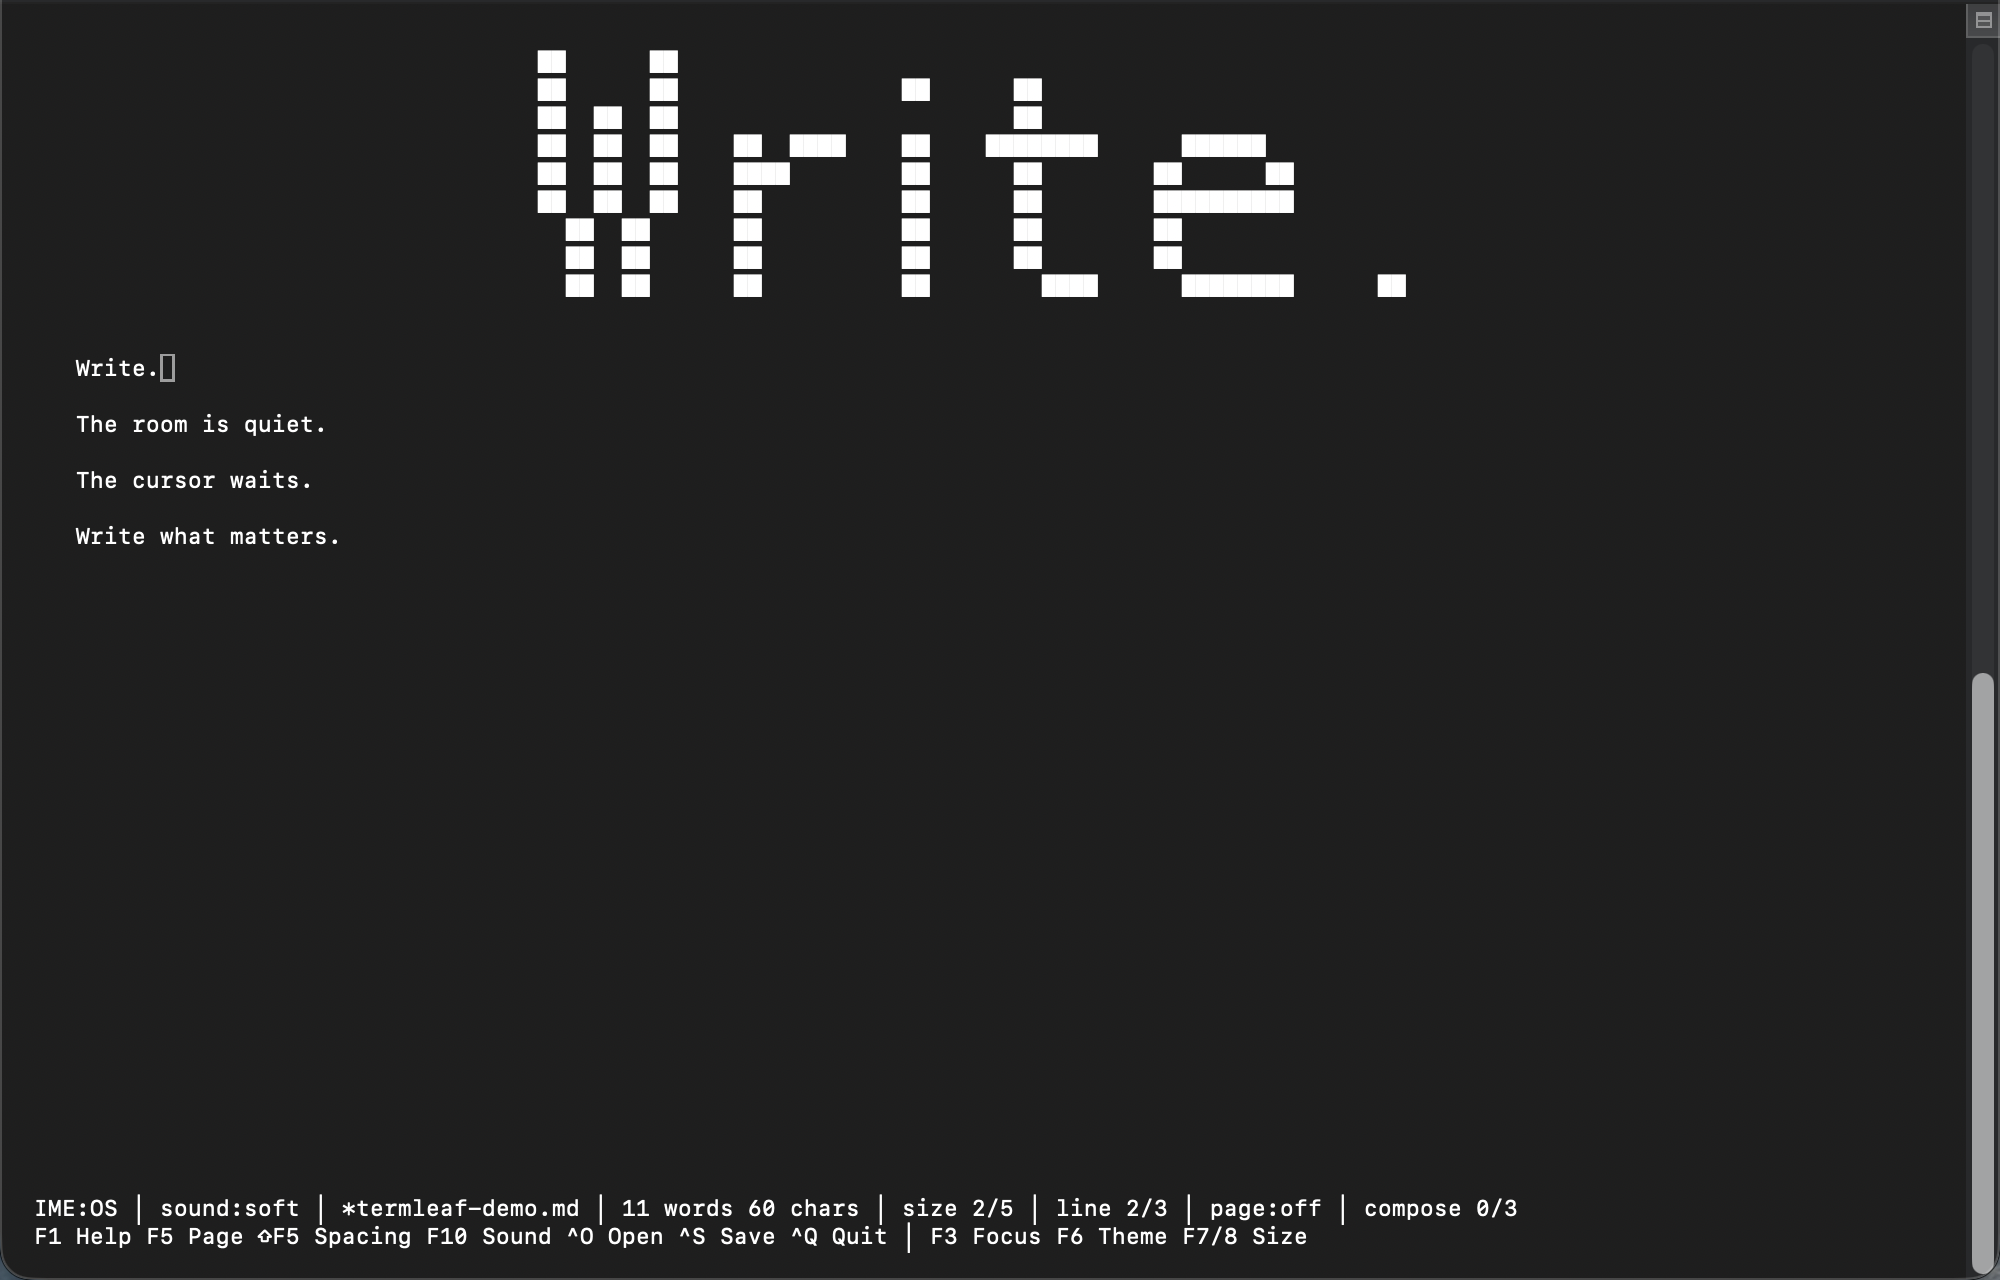
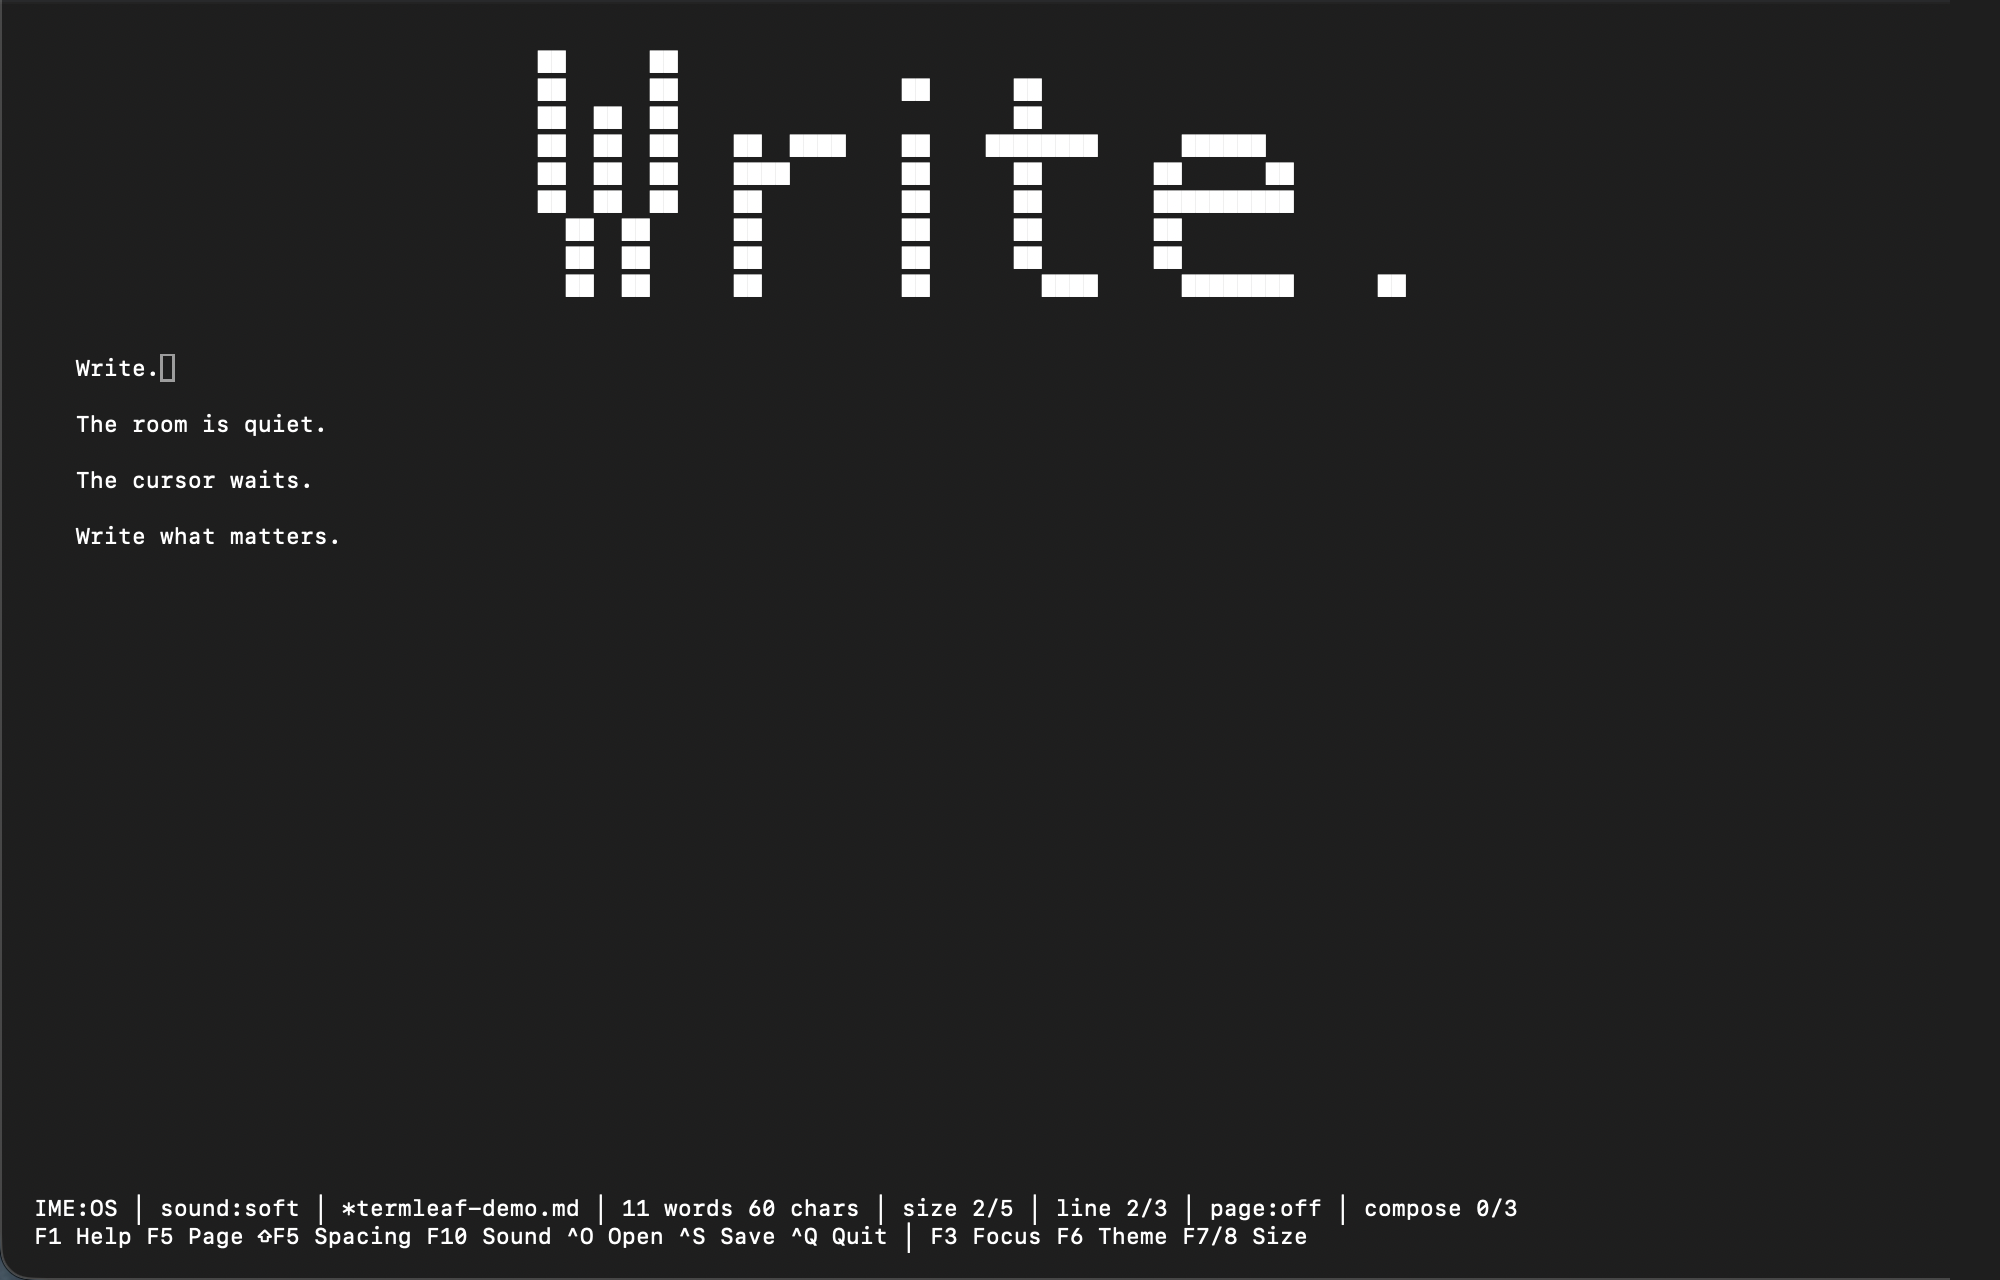
fix(website): refine terminal preview

Changed region(s): [[0.961, 0.0, 1.0, 1.0]]

diff --git a/website/app/page.tsx b/website/app/page.tsx
@@ -23,8 +23,6 @@ const content = {
     },
     terminal: {
       label: "Example of the Termleaf writing screen",
-      badge: "LIVE CAPTURE",
-      caption: "Actual macOS Terminal",
     },
     manifesto: {
       kicker: "WHY TERMLEAF",
@@ -108,8 +106,6 @@ const content = {
     },
     terminal: {
       label: "Termleaf 편집 화면 예시",
-      badge: "LIVE CAPTURE",
-      caption: "실제 macOS 터미널",
     },
     manifesto: {
       kicker: "WHY TERMLEAF",
@@ -248,21 +244,28 @@ export default async function Home() {
 
         <figure className="terminal-stage">
           <div className="paper-shadow" aria-hidden="true" />
-          <div className="terminal-capture-frame">
-            <img
-              src="/termleaf-terminal.png"
-              alt={copy.terminal.label}
-              width="2000"
-              height="1280"
-              loading="eager"
-              fetchPriority="high"
-              decoding="async"
-            />
+          <div className="terminal-window-shell">
+            <div className="terminal-titlebar" aria-hidden="true">
+              <span className="window-controls">
+                <i />
+                <i />
+                <i />
+              </span>
+              <span>termleaf — termleaf-demo.md</span>
+              <span />
+            </div>
+            <div className="terminal-capture-frame">
+              <img
+                src="/termleaf-terminal.png"
+                alt={copy.terminal.label}
+                width="2000"
+                height="1280"
+                loading="eager"
+                fetchPriority="high"
+                decoding="async"
+              />
+            </div>
           </div>
-          <figcaption className="stage-note">
-            <span>{copy.terminal.badge}</span>
-            <span>{copy.terminal.caption}</span>
-          </figcaption>
         </figure>
       </section>
 

diff --git a/website/app/globals.css b/website/app/globals.css
@@ -284,9 +284,8 @@ h1 em {
   transform: rotate(-2.4deg);
 }
 
-.terminal-capture-frame {
+.terminal-window-shell {
   position: relative;
-  aspect-ratio: 25 / 16;
   overflow: hidden;
   border: 1px solid #2d342e;
   background: var(--terminal);
@@ -294,32 +293,44 @@ h1 em {
   transform: rotate(0.8deg);
 }
 
+.terminal-titlebar {
+  height: 32px;
+  padding: 0 12px;
+  display: grid;
+  grid-template-columns: 1fr auto 1fr;
+  align-items: center;
+  border-bottom: 1px solid #303331;
+  background: #272928;
+  color: #a9adaa;
+  font-family: var(--font-geist-mono), monospace;
+  font-size: 9px;
+}
+
+.window-controls {
+  display: flex;
+  gap: 6px;
+}
+
+.window-controls i {
+  width: 9px;
+  height: 9px;
+  border-radius: 50%;
+}
+
+.window-controls i:nth-child(1) { background: #ff5f57; }
+.window-controls i:nth-child(2) { background: #febc2e; }
+.window-controls i:nth-child(3) { background: #28c840; }
+
+.terminal-capture-frame {
+  aspect-ratio: 25 / 16;
+  overflow: hidden;
+}
+
 .terminal-capture-frame img {
   width: 100%;
   height: 100%;
   display: block;
   object-fit: cover;
-}
-
-.stage-note {
-  position: absolute;
-  right: -12px;
-  bottom: 0;
-  padding: 9px 12px;
-  display: flex;
-  gap: 16px;
-  border: 1px solid var(--ink);
-  background: var(--amber);
-  font-family: var(--font-geist-mono), monospace;
-  font-size: 9px;
-  font-weight: 800;
-  letter-spacing: 0.12em;
-  transform: rotate(-2deg);
-}
-
-.stage-note span:last-child {
-  letter-spacing: 0.02em;
-  text-transform: none;
 }
 
 .manifesto,
@@ -652,7 +663,7 @@ footer {
     flex: 1;
   }
 
-  .terminal-capture-frame {
+  .terminal-window-shell {
     transform: rotate(0.4deg);
   }
 
